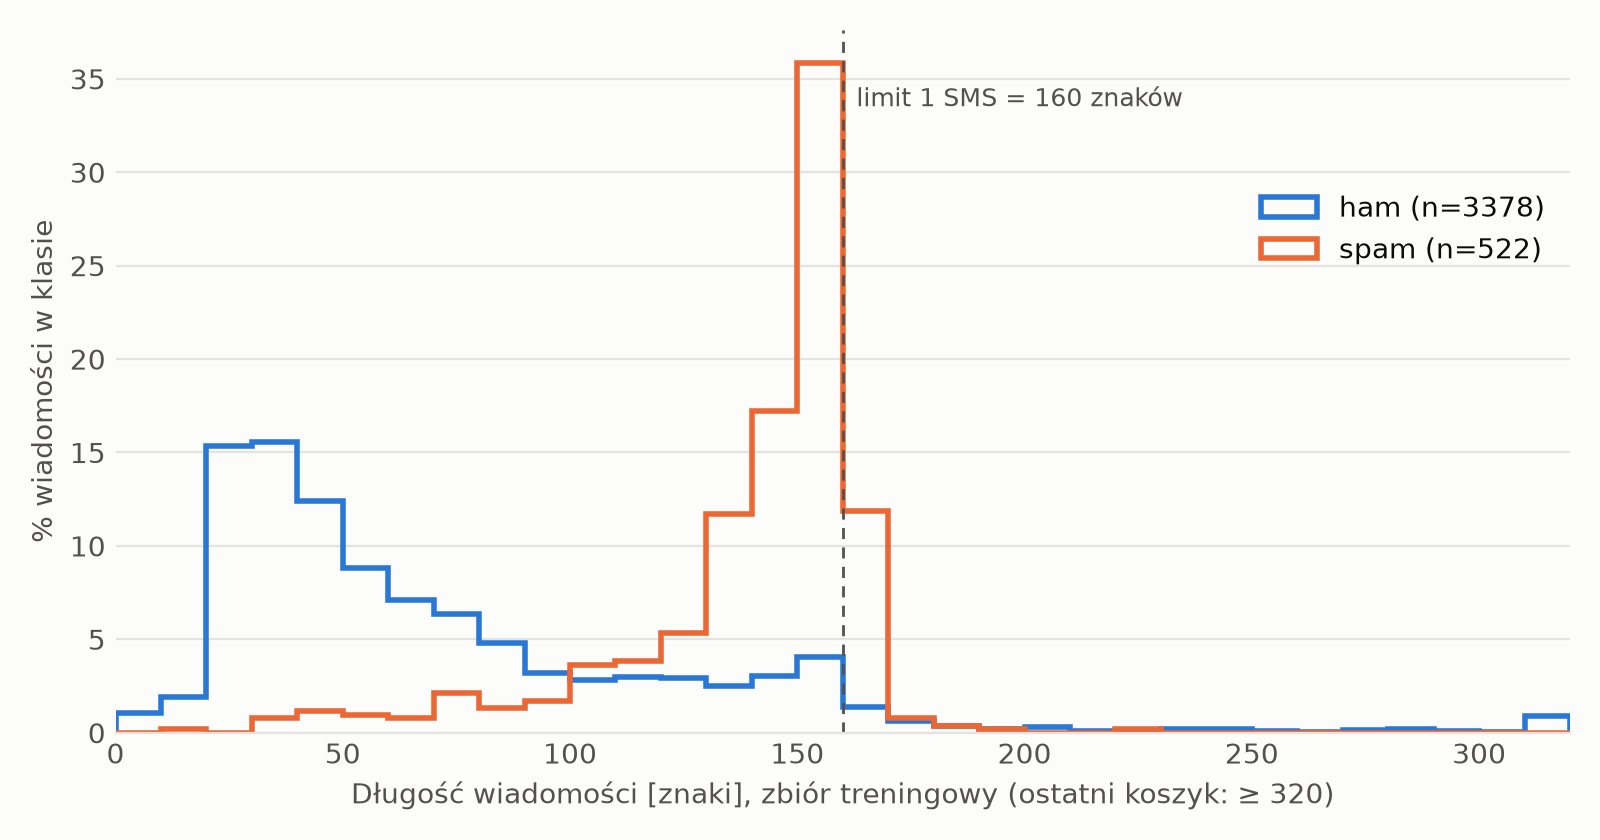
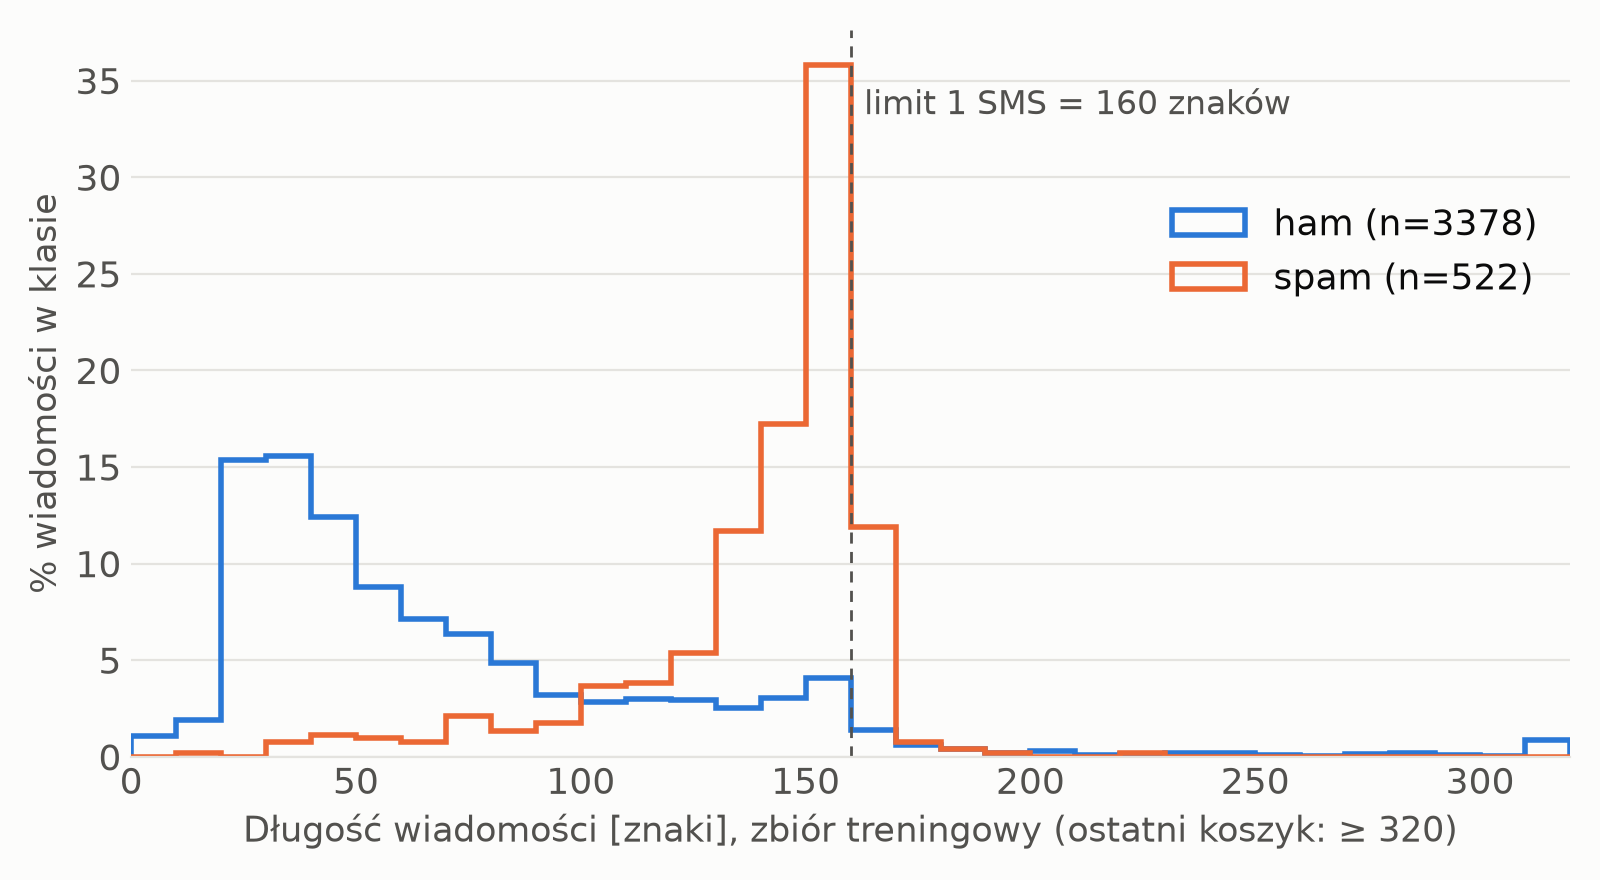
Enlarge EDA figure fonts for slides

Changed region(s): [[0.0, 0.0619, 1.0, 0.9595], [0.0312, 0.0619, 0.0938, 0.1238]]

diff --git a/smsspam/eda.py b/smsspam/eda.py
@@ -164,13 +164,13 @@ def style(ax: plt.Axes) -> None:
     for side in ("top", "right", "left"):
         ax.spines[side].set_visible(False)
     ax.spines["bottom"].set_color(GRID)
-    ax.tick_params(colors=INK_2, labelsize=10, length=0)
+    ax.tick_params(colors=INK_2, labelsize=13, length=0)
     ax.grid(axis="x", color=GRID, linewidth=0.8)
     ax.set_axisbelow(True)
 
 
 def plot_lengths(train: pd.DataFrame) -> None:
-    fig, ax = plt.subplots(figsize=(8, 4.2), facecolor=SURFACE)
+    fig, ax = plt.subplots(figsize=(8, 4.4), facecolor=SURFACE)
     style(ax)
     ax.grid(axis="x", visible=False)
     ax.grid(axis="y", color=GRID, linewidth=0.8)
@@ -181,11 +181,11 @@ def plot_lengths(train: pd.DataFrame) -> None:
         weights = np.full(len(c), 100 / len(c))
         ax.hist(c, bins=bins, weights=weights, histtype="step", linewidth=2, color=COLORS[lab], label=f"{lab} (n={len(c)})")
     ax.axvline(160, color=INK_2, linewidth=1, linestyle=(0, (4, 3)))
-    ax.text(163, ax.get_ylim()[1] * 0.92, "limit 1 SMS = 160 znaków", color=INK_2, fontsize=9, va="top")
-    ax.set_xlabel("Długość wiadomości [znaki], zbiór treningowy (ostatni koszyk: ≥ 320)", color=INK_2, fontsize=10)
-    ax.set_ylabel("% wiadomości w klasie", color=INK_2, fontsize=10)
+    ax.text(163, ax.get_ylim()[1] * 0.92, "limit 1 SMS = 160 znaków", color=INK_2, fontsize=12, va="top")
+    ax.set_xlabel("Długość wiadomości [znaki], zbiór treningowy (ostatni koszyk: ≥ 320)", color=INK_2, fontsize=12.5)
+    ax.set_ylabel("% wiadomości w klasie", color=INK_2, fontsize=12.5)
     ax.set_xlim(0, bins[-1])
-    ax.legend(frameon=False, fontsize=10, labelcolor=INK, loc="upper right", bbox_to_anchor=(1, 0.8))
+    ax.legend(frameon=False, fontsize=13, labelcolor=INK, loc="upper right", bbox_to_anchor=(1, 0.8))
     fig.tight_layout()
     fig.savefig(OUT / "fig_length.png", dpi=200)
     plt.close(fig)
@@ -195,18 +195,18 @@ def plot_markers(prev: pd.DataFrame) -> None:
     prev = prev.assign(diff=prev.spam - prev.ham).sort_values("diff")
     y = np.arange(len(prev))
     h = 0.36
-    fig, ax = plt.subplots(figsize=(8, 4.8), facecolor=SURFACE)
+    fig, ax = plt.subplots(figsize=(8, 5), facecolor=SURFACE)
     style(ax)
     for offset, lab in ((h / 2 + 0.02, "spam"), (-h / 2 - 0.02, "ham")):
         vals = prev[lab].to_numpy() * 100
         ax.barh(y + offset, vals, height=h, color=COLORS[lab], label=lab)
         for yi, v in zip(y + offset, vals):
-            ax.text(v + 1, yi, f"{v:.1f}%", va="center", fontsize=8.5, color=INK_2)
+            ax.text(v + 1.2, yi, f"{v:.1f}%", va="center", fontsize=11.5, color=INK_2)
     ax.set_yticks(y, prev.marker, color=INK)
     ax.set_xlim(0, 100)
-    ax.set_xlabel("% wiadomości w klasie zawierających znacznik (zbiór treningowy)", color=INK_2, fontsize=10)
+    ax.set_xlabel("% wiadomości w klasie ze znacznikiem (zbiór treningowy)", color=INK_2, fontsize=12.5)
     handles, labels = ax.get_legend_handles_labels()
-    ax.legend(handles[::-1], labels[::-1], frameon=False, fontsize=10, loc="lower right", labelcolor=INK)
+    ax.legend(handles[::-1], labels[::-1], frameon=False, fontsize=13, loc="lower right", labelcolor=INK)
     fig.tight_layout()
     fig.savefig(OUT / "fig_markers.png", dpi=200)
     plt.close(fig)
